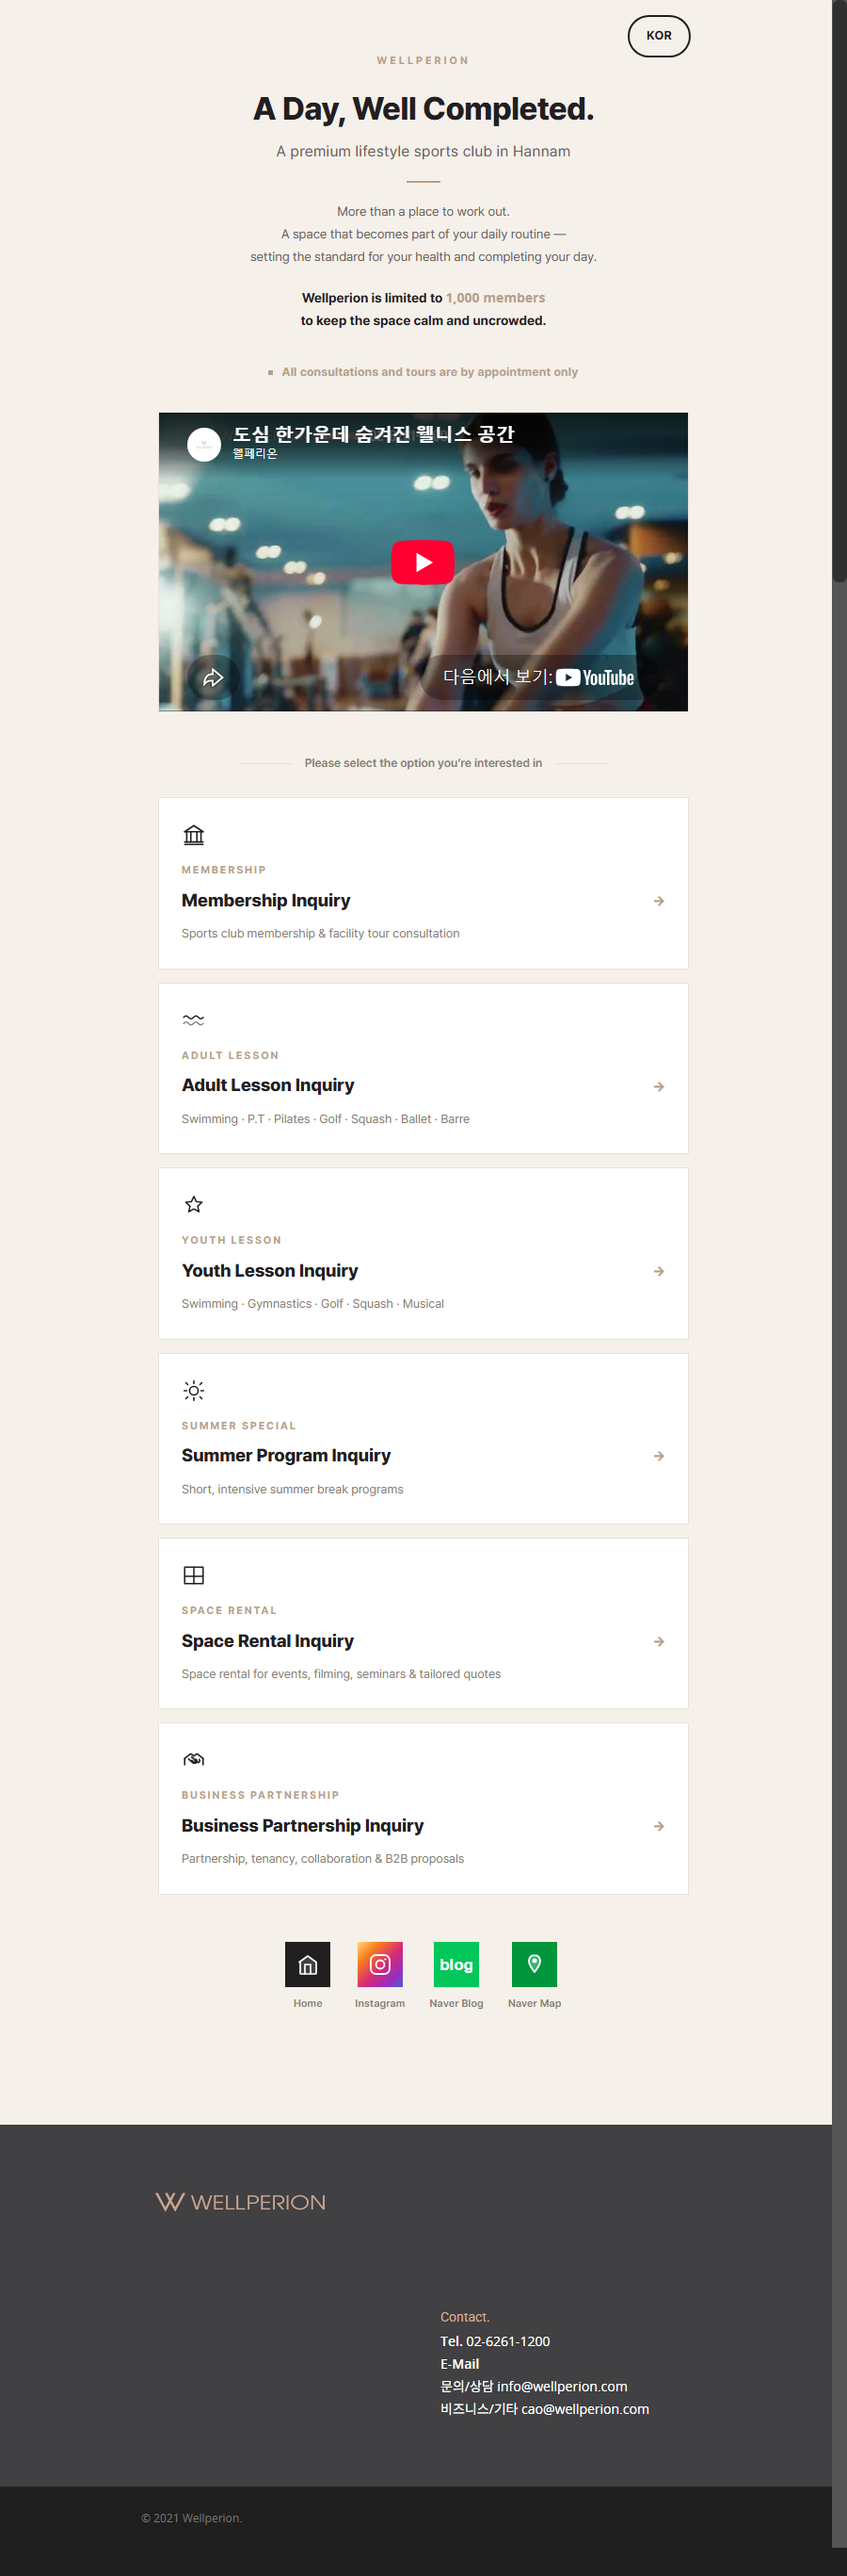
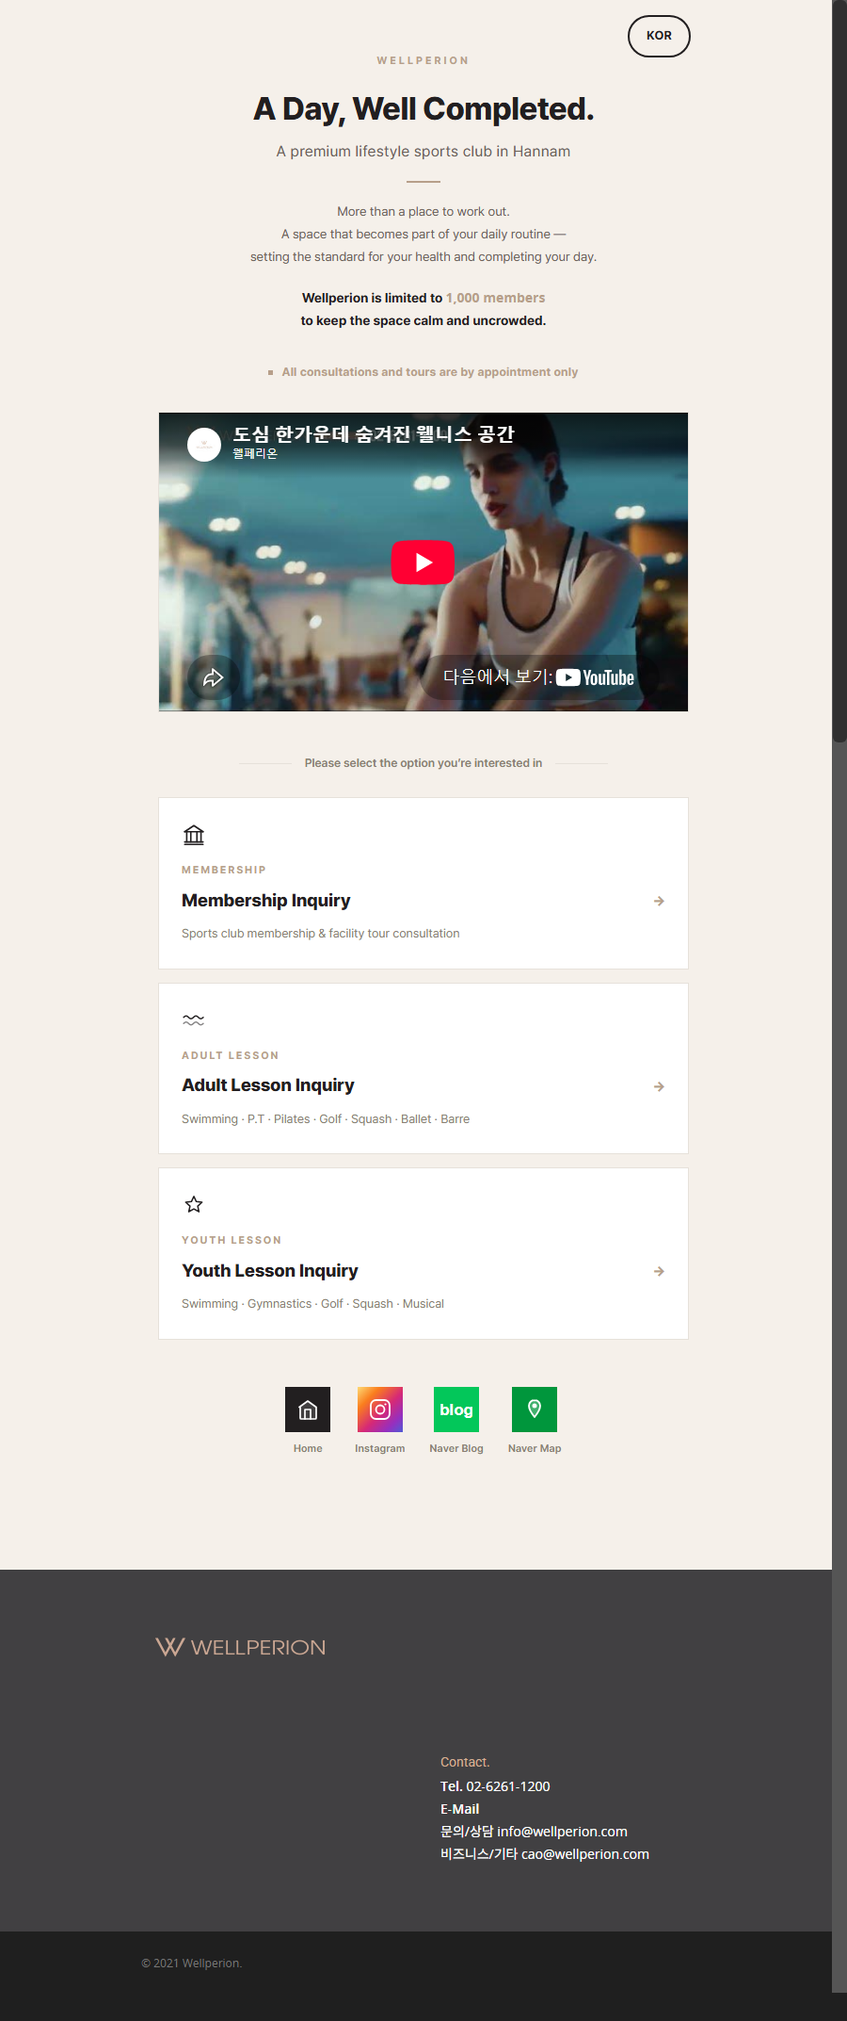
fix(cmo): 배9674 영문폼 3종 복귀(GM 결정) + 레이아웃 3건 유지
- 타입카드 6→3 복귀: summer/rental/business 카드·FORMS·GUIDES·CAT_TITLES·HERO_SUB·alias·payload 제거
  (GM 명시 'summer/rental/business 영문 no' 존중. 프론트 3종만 노출. ?type=summer 등은 hub로 폴백)
  ★백엔드(Survey.js rental/business 유입언어·col13)는 additive·무해로 존치(미사용, 재배포 불필요)
- 레이아웃 3건 유지: 카드 <a> 샤프박스(radius:0)·상단 헤더숨김+WELLPERION eyebrow(빈틈0)·KOR 토글(top16/right166=KO ENG 동일)
- 라이브 실측: 카드 3(membership/adult/youth)·tag A·radius 0·header none·toggle(16,166)·eyebrow WELLPERION·가시한글 0
- 한영_레이아웃수정_20260722.png(나란히). 로컬 3종 렌더 JS에러 0

diff --git a/3. 웰페리온 가이드/cmo/survey/wp_inquiry_form_en.html b/3. 웰페리온 가이드/cmo/survey/wp_inquiry_form_en.html
@@ -235,27 +235,6 @@ body.page-id-8408 .wlp-inq { margin-bottom: -75px !important; }
           <span class="tc-kr">Youth Lesson Inquiry<span class="arrow">&rarr;</span></span>
           <span class="tc-desc">Swimming &middot; Gymnastics &middot; Golf &middot; Squash &middot; Musical</span>
         </a>
-
-        <a class="type-card" href="#" data-cat="summer">
-          <span class="cat-icon"><svg viewBox="0 0 24 24" fill="none" stroke="currentColor" stroke-width="1.5" stroke-linecap="round" stroke-linejoin="round"><circle cx="12" cy="12" r="4.2"/><line x1="12" y1="2.5" x2="12" y2="5"/><line x1="12" y1="19" x2="12" y2="21.5"/><line x1="4.2" y1="4.2" x2="6" y2="6"/><line x1="18" y1="18" x2="19.8" y2="19.8"/><line x1="2.5" y1="12" x2="5" y2="12"/><line x1="19" y1="12" x2="21.5" y2="12"/><line x1="4.2" y1="19.8" x2="6" y2="18"/><line x1="18" y1="6" x2="19.8" y2="4.2"/></svg></span>
-          <span class="tc-en">Summer Special</span>
-          <span class="tc-kr">Summer Program Inquiry<span class="arrow">&rarr;</span></span>
-          <span class="tc-desc">Short, intensive summer break programs</span>
-        </a>
-
-        <a class="type-card" href="#" data-cat="rental">
-          <span class="cat-icon"><svg viewBox="0 0 24 24" fill="none" stroke="currentColor" stroke-width="1.4" stroke-linecap="round" stroke-linejoin="round"><rect x="3" y="4" width="18" height="16"/><line x1="12" y1="4" x2="12" y2="13"/><line x1="3" y1="13" x2="21" y2="13"/><line x1="12" y1="13" x2="12" y2="20"/></svg></span>
-          <span class="tc-en">Space Rental</span>
-          <span class="tc-kr">Space Rental Inquiry<span class="arrow">&rarr;</span></span>
-          <span class="tc-desc">Space rental for events, filming, seminars &amp; tailored quotes</span>
-        </a>
-
-        <a class="type-card" href="#" data-cat="business">
-          <span class="cat-icon"><svg viewBox="0 0 24 24" fill="none" stroke="currentColor" stroke-width="1.5" stroke-linecap="round" stroke-linejoin="round"><path d="M3 10.5 7.8 6.6c.7-.6 1.7-.6 2.4 0l1.9 1.6"/><path d="M21 10.5 16.2 6.6c-.7-.6-1.7-.6-2.4 0l-.9.75"/><path d="M6.8 11l4.2 3.6a1.65 1.65 0 0 0 2.2-2.45L9.8 8.9"/><path d="M10 12.3l2.5 2.2a1.65 1.65 0 0 0 2.2-2.45l-.9-.85"/><path d="M13.2 12.3l1.9 1.6a1.65 1.65 0 0 0 2.2-2.45"/><line x1="3" y1="10.5" x2="3" y2="16.5"/><line x1="21" y1="10.5" x2="21" y2="16.5"/></svg></span>
-          <span class="tc-en">Business Partnership</span>
-          <span class="tc-kr">Business Partnership Inquiry<span class="arrow">&rarr;</span></span>
-          <span class="tc-desc">Partnership, tenancy, collaboration &amp; B2B proposals</span>
-        </a>
       </div>
 
       <!-- Bottom shortcut links — Home (English home) · Instagram · Naver Blog · Naver Map -->
@@ -429,39 +408,6 @@ body.page-id-8408 .wlp-inq { margin-bottom: -75px !important; }
         { key:'channel', label:'How Did You Hear About Us?', type:'select', ph:'Please select', opts:CHANNELS },
         { key:'message', label:'Additional Comments', type:'textarea', opt:true, ph:'Feel free to share anything you would like to ask.' }
       ]
-    },
-    summer: {
-      purpose: 'Summer intensive program inquiry and consultation',
-      fields: [
-        { key:'name',    label:'Full Name',   type:'text', ph:'Please enter your full name', req:true },
-        { key:'phone',   label:'Mobile Phone', type:'tel', ph:'010-1234-5678', req:true },
-        { key:'program', label:'Focus Program', type:'radio', hint:'Select one · for multiple programs, please submit separately', opts:['Swimming','Gymnastics','Squash','Golf','Youth Growth PT'] },
-        { key:'wishMonth', label:'Preferred Month', type:'select', ph:'Please select', opts:['July','August','Undecided'] },
-        { key:'message', label:'Additional Comments', type:'textarea', opt:true, ph:'Feel free to share anything you would like to ask.' }
-      ]
-    },
-    rental: {
-      purpose: 'Space rental inquiry and quote',
-      fields: [
-        { key:'name',    label:'Full Name',   type:'text', ph:'Please enter your full name', req:true },
-        { key:'phone',   label:'Mobile Phone', type:'tel', ph:'010-1234-5678', req:true },
-        { key:'space',   label:'Space to Rent', type:'multi', opts:['Swimming Pool','Studio','Lounge','Golf Zone','Squash Court','Sauna','Entire Venue'] },
-        { key:'purpose', label:'Purpose', type:'select', ph:'Please select', opts:['Event','Filming','Seminar','Workshop','Gathering'] },
-        { key:'wishDate',label:'Preferred Date', type:'date', opt:true },
-        { key:'headcount',label:'Expected Headcount', type:'text', opt:true, ph:'e.g. 30 people' },
-        { key:'message', label:'Additional Comments', type:'textarea', opt:true, ph:'Feel free to share the details of your event.' }
-      ]
-    },
-    business: {
-      purpose: 'Business partnership inquiry and review',
-      fields: [
-        { key:'company',     label:'Company Name',   type:'text', ph:'Please enter your company name', req:true },
-        { key:'contactName', label:'Contact Person', type:'text', ph:'Contact name', req:true },
-        { key:'phone',       label:'Mobile Phone',   type:'tel',  ph:'010-1234-5678', req:true },
-        { key:'partnerType', label:'Partnership Type', type:'select', ph:'Please select', opts:['Collaboration','Tenancy','B2B Benefits','Content Partnership','Product Supply','Investment Partnership'] },
-        { key:'docLink',     label:'Company Deck / Link', type:'text', opt:true, ph:'https://…' },
-        { key:'proposal',    label:'Proposal', type:'textarea', req:true, ph:'Please share your partnership proposal.' }
-      ]
     }
   };
 
@@ -479,23 +425,10 @@ body.page-id-8408 .wlp-inq { margin-bottom: -75px !important; }
       lead:"Professional lessons for your child's first steps — from swimming, golf and squash to gymnastics, parent-child swimming and English musical.",
       tags:['WSC Swimming','WSC Golf','WSC Squash','WSC Gymnastics & Trampoline','WSC P.T','WSC Pilates','Parent-Child Swimming','English Musical'],
       note:'A range of specialized programs rarely found elsewhere are also available.'
-    },
-    summer: {
-      lead:'A summer-only intensive program. Swimming, gymnastics, squash, golf and Youth Growth PT — open to both adults and youth.',
-      badges:['Held in July · August','Limited spots','By appointment'],
-      note:'Spots may fill early during the season.'
-    },
-    rental: {
-      lead:'From the swimming pool to the studio, lounge and golf zone — a range of spaces for events, filming, seminars, workshops and gatherings.',
-      note:'Pricing is tailored to the scale, duration and setup of your event.'
-    },
-    business: {
-      lead:'We welcome partners to grow with Wellperion — from collaborations to tenancy, B2B benefits and content partnerships.',
-      note:'Our team will review your proposal and reply.'
     }
   };
 
-  var CAT_TITLES = { membership:'Membership Inquiry', adult:'Adult Lesson Inquiry', youth:'Youth Lesson Inquiry', summer:'Summer Program Inquiry', rental:'Space Rental Inquiry', business:'Business Partnership Inquiry' };
+  var CAT_TITLES = { membership:'Membership Inquiry', adult:'Adult Lesson Inquiry', youth:'Youth Lesson Inquiry' };
 
   var AGE_POLICY_HTML =
     '<details class="g-age-policy"><summary>Enrollment age guide</summary>' +
@@ -510,10 +443,7 @@ body.page-id-8408 .wlp-inq { margin-bottom: -75px !important; }
   var HERO_SUB = {
     membership: "We'll guide you through membership and facility tours.",
     adult: 'Explore our adult lesson programs.',
-    youth: 'Explore our youth lesson programs.',
-    summer: 'Discover our summer intensive programs.',
-    rental: 'Rent our spaces for events, filming and gatherings.',
-    business: 'We welcome partnership and business proposals.'
+    youth: 'Explore our youth lesson programs.'
   };
   function setHeroSub(cat){ $('heroSubLine1').textContent = HERO_SUB[cat] || HERO_SUB_DEFAULT; }
 
@@ -832,9 +762,6 @@ body.page-id-8408 .wlp-inq { margin-bottom: -75px !important; }
       category:vals.category, name:vals.name, phone:vals.phone,
       program:vals.program||'', channel:vals.channel||'', message:vals.message||'',
       wishTime:vals.wishTime||'', age:vals.age||'', exp1Date:vals.exp1Date||'',
-      target:vals.target||'', wishMonth:vals.wishMonth||'',
-      space:vals.space||'', purpose:vals.purpose||'', wishDate:vals.wishDate||'', headcount:vals.headcount||'',
-      company:vals.company||'', contactName:vals.contactName||'', partnerType:vals.partnerType||'', docLink:vals.docLink||'', proposal:vals.proposal||'',
       consent:true, hp:vals.hp||'', fillMs:(formShownAt? (Date.now()-formShownAt) : 0),
       utmSource:UTM_SOURCE, utmContent:UTM_CONTENT, utmMedium:UTM_MEDIUM
     };
@@ -864,10 +791,7 @@ body.page-id-8408 .wlp-inq { margin-bottom: -75px !important; }
       var t = (qp('type') || '').toLowerCase();
       var alias = { membership:'membership', '멤버십':'membership',
                     adult:'adult', '성인':'adult', '성인강습':'adult',
-                    youth:'youth', '유소년':'youth', '유소년강습':'youth',
-                    summer:'summer', '여름':'summer', '여름특강':'summer',
-                    rental:'rental', '렌트':'rental', '대관':'rental', '공간렌트':'rental',
-                    business:'business', '비즈니스':'business', '제휴':'business' };
+                    youth:'youth', '유소년':'youth', '유소년강습':'youth' };
       var cat = alias[t];
       if (cat) { pickCat(cat, false); } else { showHub(); }
     } catch (e) { showHub(); }
